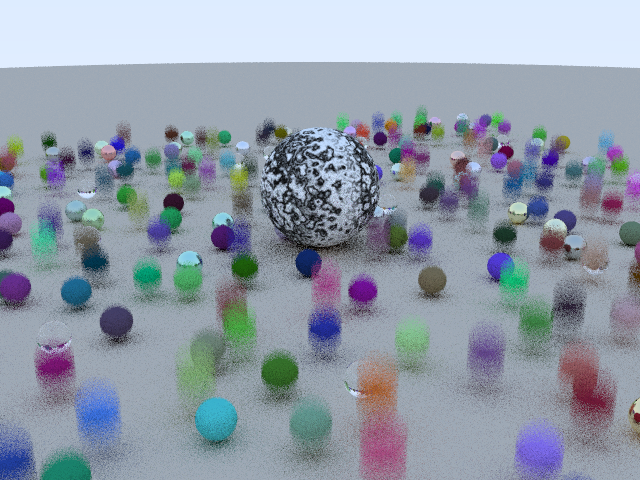
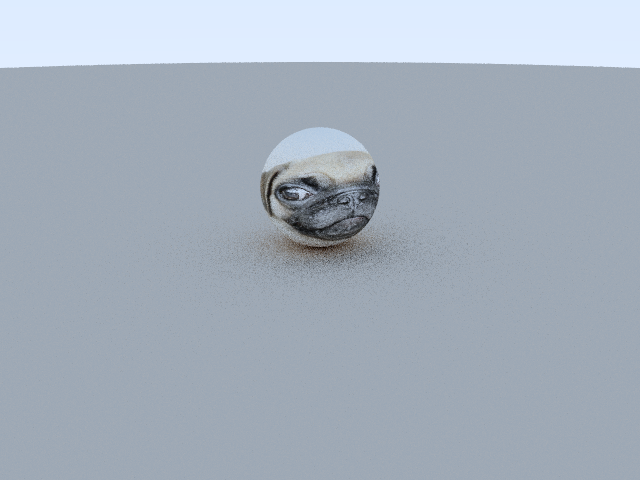
add image texture

diff --git a/src/object.rs b/src/object.rs
@@ -3,16 +3,19 @@ use super::binary_tree::BinaryTree;
 use super::material::Material;
 use super::ray::Ray;
 use super::vector3::{dot, Vector3};
+use super::utils::{center_at_time, get_sphere_uv};
 
 pub struct HitRecord {
+    pub u: f32,
+    pub v: f32,
     pub t: f32,
     pub p: Vector3,
     pub normal: Vector3,
 }
 
 impl HitRecord {
-    pub fn new(t: f32, p: Vector3, normal: Vector3) -> HitRecord {
-        HitRecord { t, p, normal }
+    pub fn new(u: f32, v: f32, t: f32, p: Vector3, normal: Vector3) -> HitRecord {
+        HitRecord { u, v, t, p, normal }
     }
 }
 
@@ -39,16 +42,6 @@ pub enum Object {
     },
 }
 
-pub fn center_at_time(
-    time: f32,
-    center0: &Vector3,
-    center1: &Vector3,
-    time0: &f32,
-    time1: &f32,
-) -> Vector3 {
-    ((time - time0) / (time1 - time0)) * (center1 - center0) + *center0
-}
-
 impl Object {
     pub fn hit(&self, r: &Ray, t_min: f32, t_max: f32) -> Option<(HitRecord, &Material)> {
         match self {
@@ -68,14 +61,16 @@ impl Object {
                         let t = temp;
                         let p = r.point_at_parameter(t);
                         let normal = (p - *center) / *radius;
-                        return Some((HitRecord::new(t, p, normal), &material));
+                        let (u, v) = get_sphere_uv(&((p - *center) / *radius));
+                        return Some((HitRecord::new(u, v, t, p, normal), &material));
                     }
                     temp = (-b + (b * b - a * c).sqrt()) / a;
                     if temp < t_max && temp > t_min {
                         let t = temp;
                         let p = r.point_at_parameter(t);
                         let normal = (p - *center) / *radius;
-                        return Some((HitRecord::new(t, p, normal), &material));
+                        let (u, v) = get_sphere_uv(&((p - *center) / *radius));
+                        return Some((HitRecord::new(u, v, t, p, normal), &material));
                     }
                 }
                 None
@@ -100,14 +95,16 @@ impl Object {
                         let t = temp;
                         let p = r.point_at_parameter(t);
                         let normal = (p - center) / *radius;
-                        return Some((HitRecord::new(t, p, normal), &material));
+                        let (u, v) = get_sphere_uv(&((p - center) / *radius));
+                        return Some((HitRecord::new(u, v, t, p, normal), &material));
                     }
                     temp = (-b + (b * b - a * c).sqrt()) / a;
                     if temp < t_max && temp > t_min {
                         let t = temp;
                         let p = r.point_at_parameter(t);
                         let normal = (p - center) / *radius;
-                        return Some((HitRecord::new(t, p, normal), &material));
+                        let (u, v) = get_sphere_uv(&((p - center) / *radius));
+                        return Some((HitRecord::new(u, v, t, p, normal), &material));
                     }
                 }
                 None

diff --git a/src/main.rs b/src/main.rs
@@ -3,27 +3,29 @@ extern crate image;
 extern crate num_cpus;
 extern crate rand;
 
+use image::GenericImageView;
 use rand::Rng;
 use std::time::Instant;
 
 mod aabb;
+mod binary_tree;
 mod camera;
 mod material;
 mod object;
 mod perlin;
 mod ray;
 mod texture;
+mod utils;
 mod vector3;
-mod binary_tree;
 
+use binary_tree::create_binary_tree;
 use camera::Camera;
-use material::{Material};
+use material::Material;
 use object::Object;
+use perlin::Perlin;
 use ray::Ray;
-use texture::{Texture};
+use texture::Texture;
 use vector3::{unit_vector, Vector3};
-use perlin::{Perlin};
-use binary_tree::{create_binary_tree};
 
 fn random_scene() -> Vec<Box<Object>> {
     let n: usize = 500;
@@ -33,14 +35,26 @@ fn random_scene() -> Vec<Box<Object>> {
         center: Vector3::new(0.0, -1000.0, 0.0),
         radius: 1000.0,
         material: Material::Lambertian {
-            albedo: Texture::ConstantTexture {color: Vector3::new(0.7, 0.6, 0.5)},
+            albedo: Texture::ConstantTexture {
+                color: Vector3::new(0.7, 0.6, 0.5),
+            },
         },
     }));
+    // object_list.push(Box::new(Object::Sphere {
+    //     center: Vector3::new(0.0, 1.0, 0.0),
+    //     radius: 1.0,
+    //     material: Material::Lambertian {
+    //         albedo: Texture::NoiseTexture { noise: Perlin::new(), scale: 5.0 },
+    //     },
+    // }));
+    let img = image::open("pug.jpg").unwrap();
+    let (nx, ny) = img.dimensions();
+
     object_list.push(Box::new(Object::Sphere {
         center: Vector3::new(0.0, 1.0, 0.0),
         radius: 1.0,
         material: Material::Lambertian {
-            albedo: Texture::NoiseTexture { noise: Perlin::new(), scale: 5.0 },
+            albedo: Texture::ImageTexture { img },
         },
     }));
 
@@ -75,7 +89,7 @@ fn random_scene2() -> Vec<Box<Object>> {
                                     rng.gen::<f32>() * rng.gen::<f32>(),
                                     rng.gen::<f32>() * rng.gen::<f32>(),
                                 ),
-                            }
+                            },
                         },
                     }));
                 } else if choose_mat < 0.95 {
@@ -88,7 +102,7 @@ fn random_scene2() -> Vec<Box<Object>> {
                                     0.5 * (1.0 + rng.gen::<f32>()),
                                     0.5 * (1.0 + rng.gen::<f32>()),
                                     0.5 * (1.0 + rng.gen::<f32>()),
-                                )
+                                ),
                             },
                             fuzz: 0.5 * rng.gen::<f32>(),
                         },
@@ -169,8 +183,8 @@ fn main() {
 
     // TODO: why is this taking longer :(
     let mut scene = random_scene();
-    let balls = random_scene2();
-    scene.push(Box::new(create_binary_tree(balls, 0.0, 1.0)));
+    // let balls = random_scene2();
+    // scene.push(Box::new(create_binary_tree(balls, 0.0, 1.0)));
     let world = &Object::ObjectList { list: scene };
 
     let mut pixels = vec![Vector3::new(0.0, 0.0, 0.0); width * height];

diff --git a/src/texture.rs b/src/texture.rs
@@ -1,10 +1,22 @@
 use super::perlin::Perlin;
 use super::vector3::Vector3;
+use image::{DynamicImage, GenericImageView};
 
 pub enum Texture {
-    ConstantTexture{ color: Vector3 },
-    CheckerTexture{ even: Box<Texture>, odd: Box<Texture> },
-    NoiseTexture{ noise: Perlin, scale: f32 },
+    ConstantTexture {
+        color: Vector3,
+    },
+    CheckerTexture {
+        even: Box<Texture>,
+        odd: Box<Texture>,
+    },
+    NoiseTexture {
+        noise: Perlin,
+        scale: f32,
+    },
+    ImageTexture {
+        img: DynamicImage,
+    },
 }
 
 impl Texture {
@@ -18,7 +30,7 @@ impl Texture {
                 } else {
                     even.value(u, v, p)
                 }
-            },
+            }
             Texture::NoiseTexture { noise, scale } => {
                 // Vector3::new(1.0, 1.0, 1.0) * 0.5 * (1.0 + self.noise.turb(&(self.scale * p), None))
                 // Vector3::new(1.0, 1.0, 1.0) * self.noise.turb(&(self.scale * p), None)
@@ -26,7 +38,31 @@ impl Texture {
                     * 0.5
                     * (1.0 + (scale * p.z() + 10.0 * noise.turb(&(*scale * p), None)).sin())
             }
+            Texture::ImageTexture { img } => {
+                let (nx, ny) = img.dimensions();
+                let nx_isize = nx as isize;
+                let ny_isize = ny as isize;
+                let mut i: isize = (u * nx as f32) as isize;
+                let mut j: isize = ((1.0 - v) * ny as f32 - 0.001) as isize;
+                if i < 0 {
+                    i = 0;
+                }
+                if j < 0 {
+                    j = 0;
+                }
+                if i > nx_isize - 1 {
+                    i = nx_isize - 1;
+                }
+                if j > ny_isize - 1 {
+                    j = ny_isize - 1;
+                }
+                let pixel = img.get_pixel(i as u32, j as u32);
+                return Vector3::new(
+                    pixel[0] as f32 / 255.0,
+                    pixel[1] as f32 / 255.0,
+                    pixel[2] as f32 / 255.0,
+                );
+            }
         }
-        
     }
 }

diff --git a/src/material.rs b/src/material.rs
@@ -40,7 +40,7 @@ impl Material {
             Material::Lambertian { albedo } => {
                 let target: Vector3 = rec.p + rec.normal + random_in_unit_sphere();
                 Some((
-                    albedo.value(0.0, 0.0, &rec.p),
+                    albedo.value(rec.u, rec.v, &rec.p),
                     Ray::new(rec.p, target - rec.p, r_in.time),
                 ))
             }
@@ -50,10 +50,9 @@ impl Material {
                     fuzz = 1.0;
                 }
                 let reflected = reflect(unit_vector(r_in.direction()), rec.normal);
-                let scattered =
-                    Ray::new(rec.p, reflected + fuzz * random_in_unit_sphere(), 0.0);
+                let scattered = Ray::new(rec.p, reflected + fuzz * random_in_unit_sphere(), 0.0);
                 if dot(scattered.direction(), rec.normal) > 0.0 {
-                    Some((albedo.value(0.0, 0.0, &rec.p), scattered))
+                    Some((albedo.value(rec.u, rec.v, &rec.p), scattered))
                 } else {
                     None
                 }

diff --git a/src/utils.rs b/src/utils.rs
@@ -1,0 +1,19 @@
+use super::vector3::Vector3;
+use image::{DynamicImage, GenericImageView};
+use std::f32::consts::PI;
+
+pub fn center_at_time(
+    time: f32,
+    center0: &Vector3,
+    center1: &Vector3,
+    time0: &f32,
+    time1: &f32,
+) -> Vector3 {
+    ((time - time0) / (time1 - time0)) * (center1 - center0) + *center0
+}
+
+pub fn get_sphere_uv(p: &Vector3) -> (f32, f32) {
+    let phi: f32 = p.z().atan2(p.x());
+    let theta: f32 = p.y().asin();
+    (1.0 - (phi + PI) / (2.0 * PI), (theta + PI / 2.0) / PI)
+}
